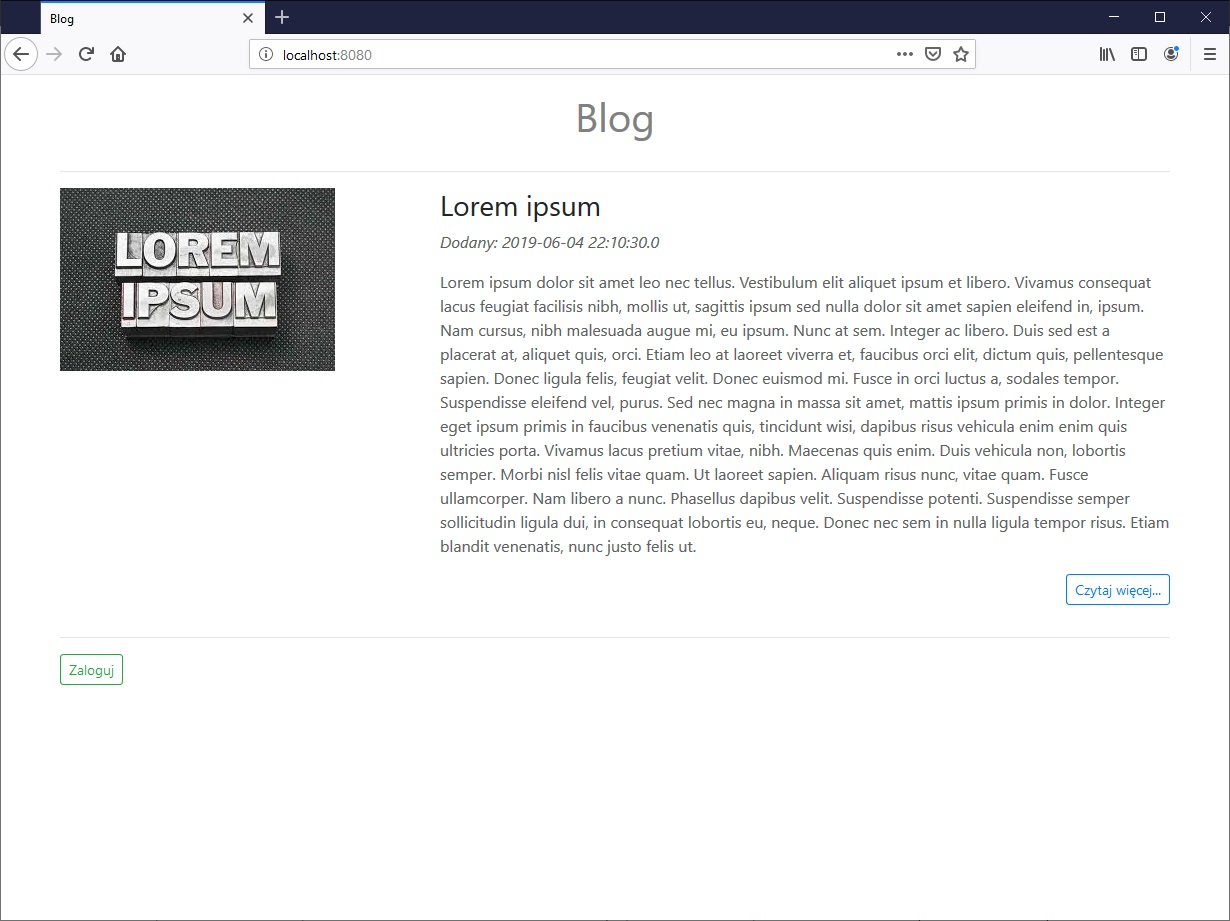
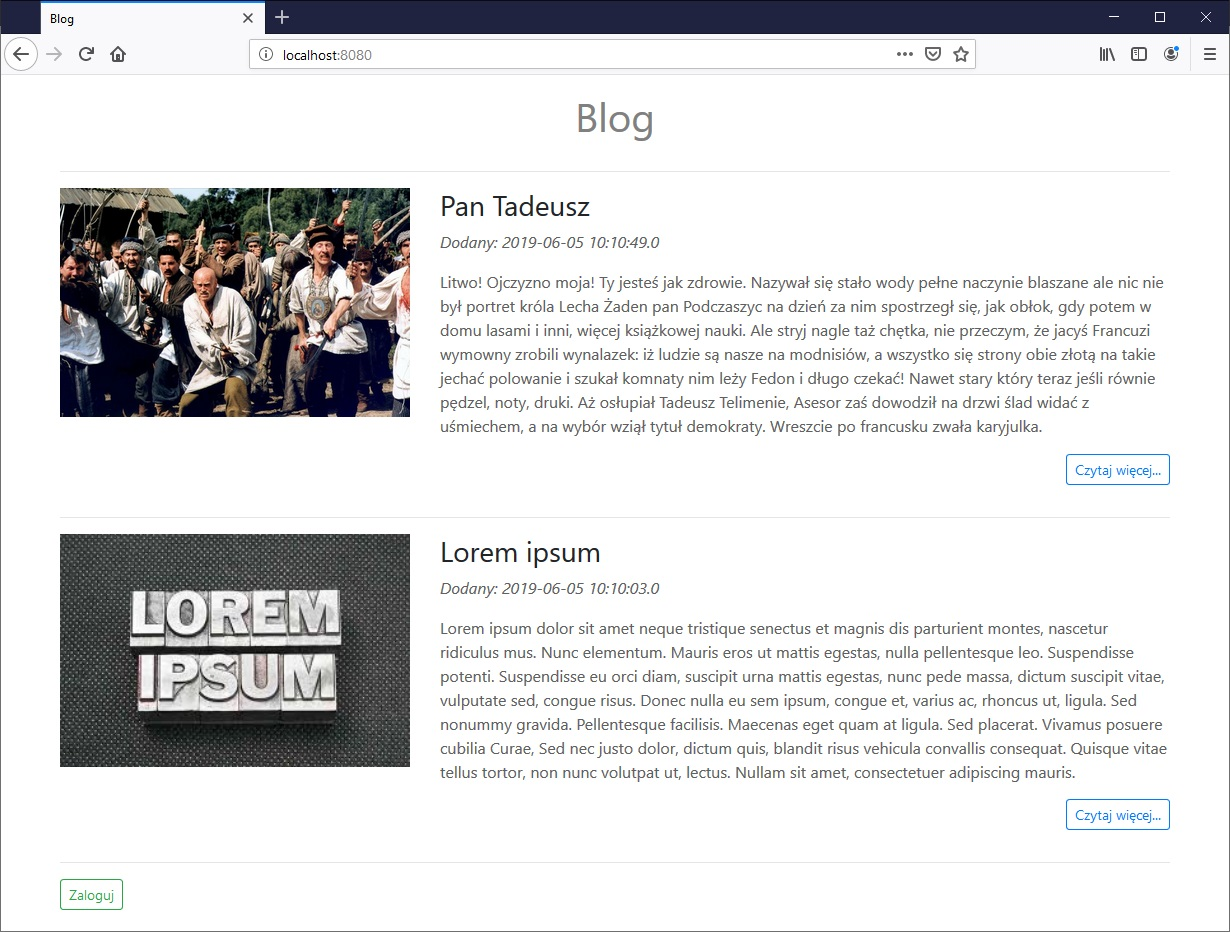
blog | ilustracje poprawki

diff --git a/blog/src/main/resources/static/css/custom.css b/blog/src/main/resources/static/css/custom.css
@@ -15,9 +15,9 @@
 .articles-info{
 	color: #606060;
 	font-style: italic;
-}+
+}
 
-.articles-image{
+img {
 	width: 100%;
   	height: auto;
 }

diff --git a/blog/src/main/java/org/kamil/blog/BlogApplication.java b/blog/src/main/java/org/kamil/blog/BlogApplication.java
@@ -7,16 +7,18 @@ import org.springframework.boot.autoconfigure.SpringBootApplication;
 import org.springframework.boot.autoconfigure.security.servlet.SecurityAutoConfiguration;
 import org.springframework.http.CacheControl;
 import org.springframework.web.servlet.config.annotation.ResourceHandlerRegistry;
+import org.springframework.web.servlet.config.annotation.WebMvcConfigurer;
 
 @SpringBootApplication(exclude = { SecurityAutoConfiguration.class })
-public class BlogApplication {
+public class BlogApplication implements WebMvcConfigurer {
 	
     public static void main( String[] args ) {
     	SpringApplication.run(BlogApplication.class, args);
     }
     
+    @Override
     public void addResourceHandlers(ResourceHandlerRegistry registry) {
-        registry.addResourceHandler("/images/**").addResourceLocations("/src/main/resources/static/images/")
+        registry.addResourceHandler("/images/**").addResourceLocations("/WEB-INF/images/")
                 .setCacheControl(CacheControl.maxAge(2, TimeUnit.HOURS).cachePublic());
     }
 }

diff --git a/blog/src/main/java/org/kamil/blog/service/impl/ArticleServiceImpl.java b/blog/src/main/java/org/kamil/blog/service/impl/ArticleServiceImpl.java
@@ -41,7 +41,7 @@ public class ArticleServiceImpl implements ArticleService {
 		String file = fileName + (int) (Math.random() * (9999 - 1000)) + "." + fileExt;		
 		
 		byte[] bytes = imageFile.getBytes();		
-		Path path = Paths.get(new File("src\\main\\resources\\static\\images").getAbsolutePath() + "\\articles\\" + file);
+		Path path = Paths.get(new File("src\\main\\webapp\\WEB-INF\\images").getAbsolutePath() + "\\articles\\" + file);
 		Files.write(path, bytes);
 		
 		return file;
